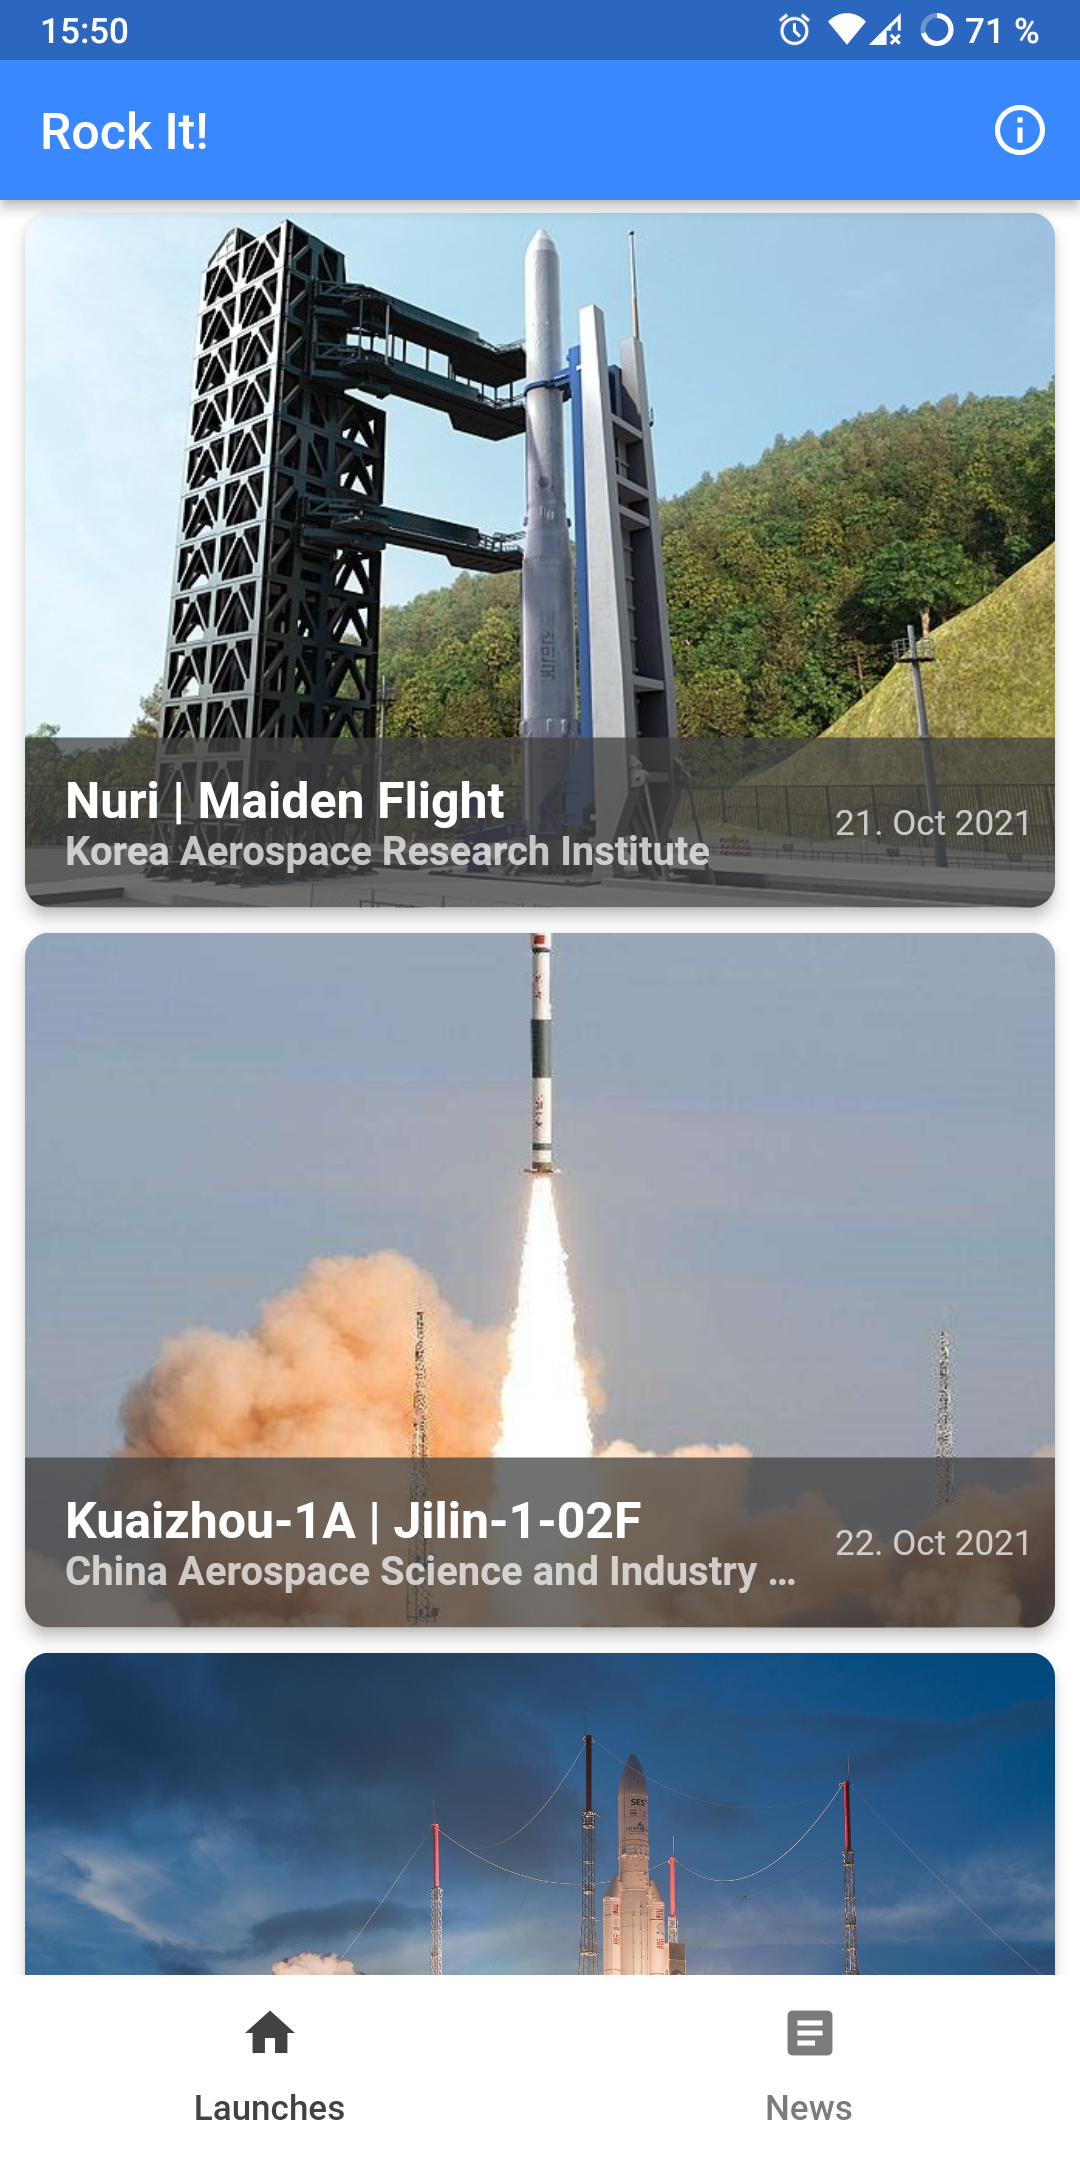
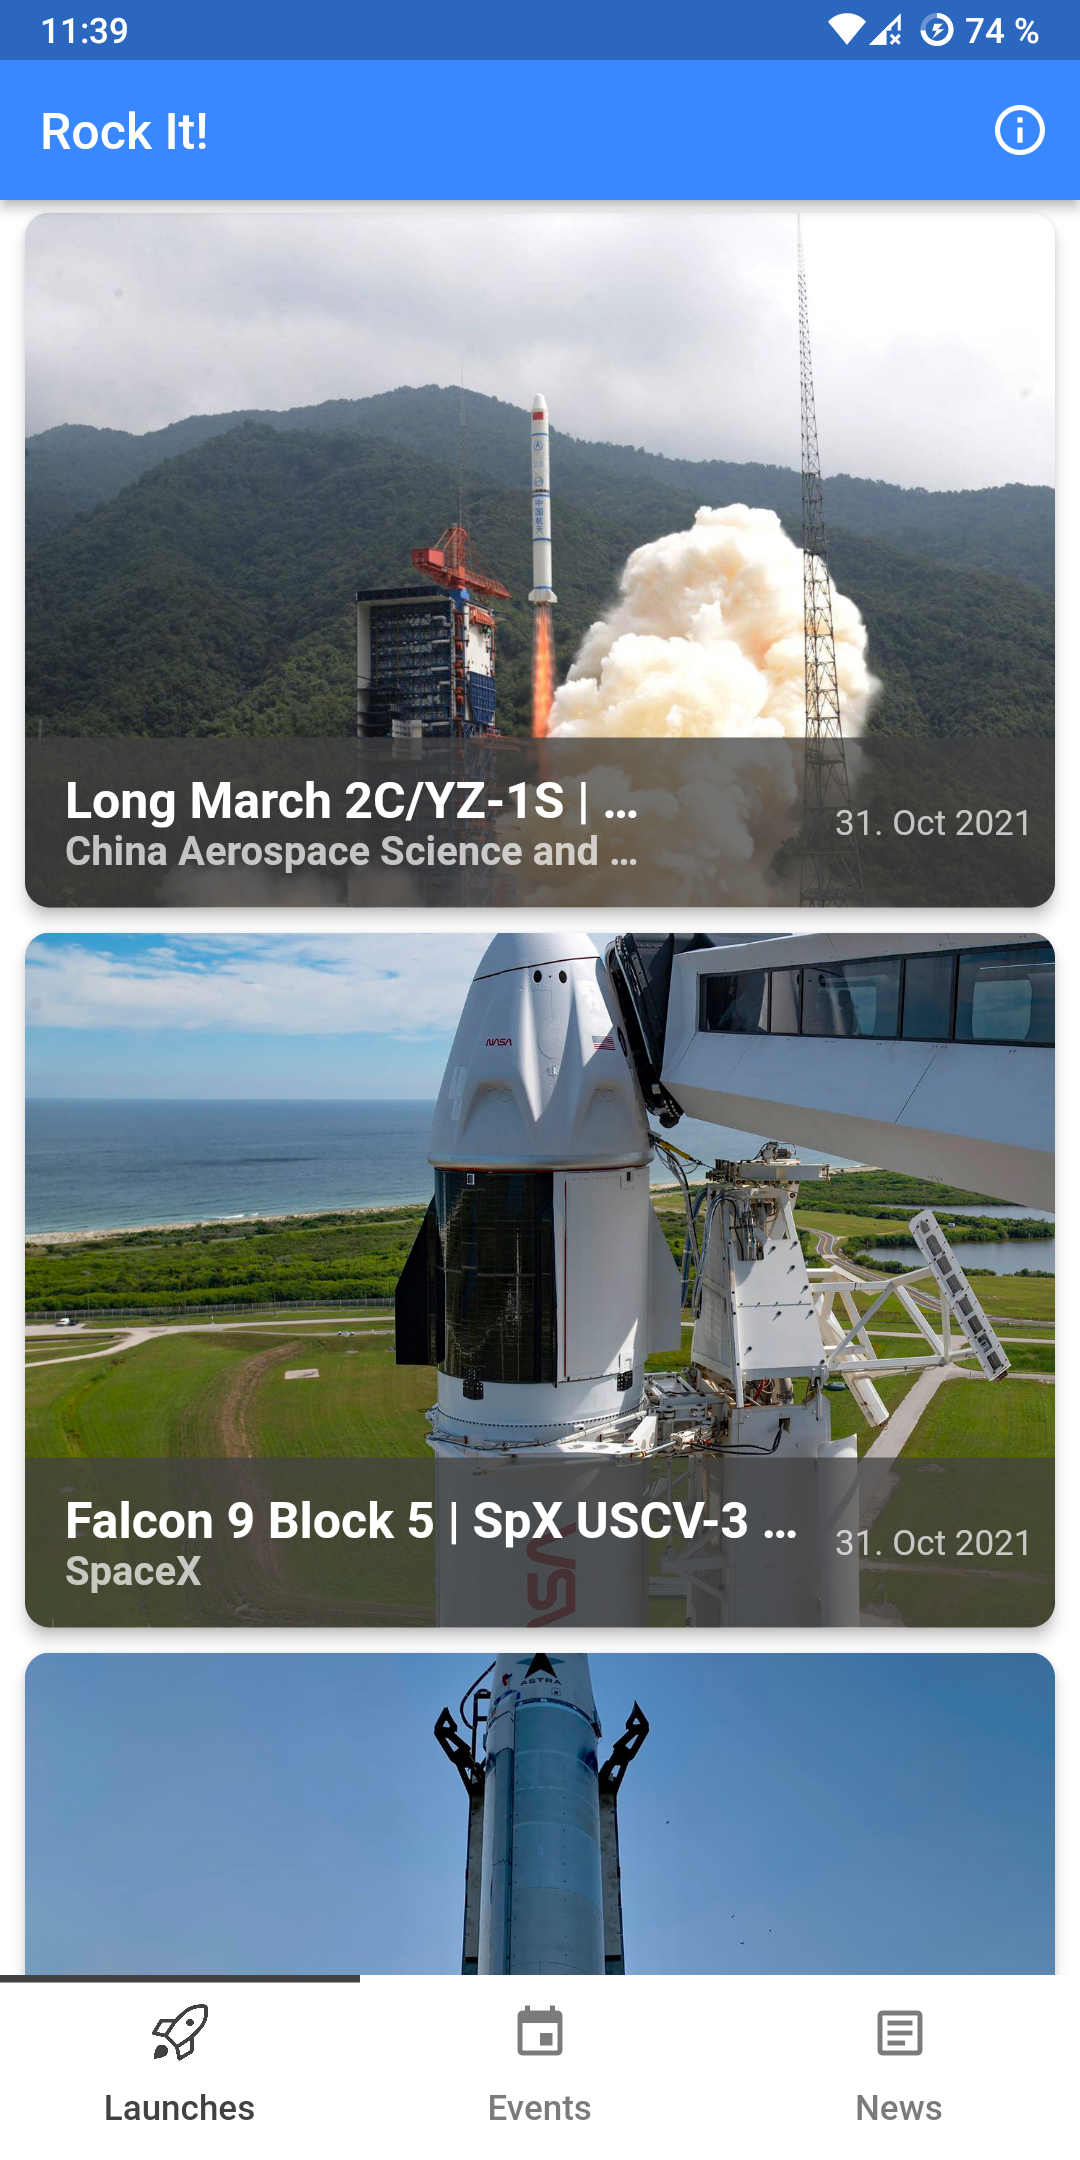
Update screenshots

diff --git a/README.md b/README.md
@@ -8,14 +8,24 @@ Rock It! is an Android app that helps you stay informed on all things space. It 
 - List latest space news articles
 - Localization for English and German
 
-### Screenshots
-|                    Launches listing (dark mode)                    |              Space news  (dark mode)               |
-| :------------------------------------------------------------: | :------------------------------------------------------: |
-| ![Launch listing](.github/screenshots/d-launches.png?raw=true) | ![News listing](.github/screenshots/d-news.png?raw=true) |
+### Screenshots (dark/light mode)
+|                        Launches listing                        |                   Events listing                    |                        Space news                        |
+| :------------------------------------------------------------: | :-------------------------------------------------: | :------------------------------------------------------: |
+| ![Launch listing](.github/screenshots/d-launches.png?raw=true) | ![Events listing](.github/screenshots/d-events.png) | ![News listing](.github/screenshots/d-news.png?raw=true) |
 
-|                   Launches listing (light mode)                    |              Space news  (light mode)              |
-| :------------------------------------------------------------: | :------------------------------------------------------: |
-| ![Launch listing](.github/screenshots/l-launches.png?raw=true) | ![News listing](.github/screenshots/l-news.png?raw=true) |
+|                   Launch details                    |                   Event details                   |
+| :-------------------------------------------------: | :-----------------------------------------------: |
+| ![Launch details](.github/screenshots/d-launch.png) | ![Event details](.github/screenshots/d-event.png) |
+
+|                        Launches listing                        |                   Events listing                    |                        Space news                        |
+| :------------------------------------------------------------: | :-------------------------------------------------: | :------------------------------------------------------: |
+| ![Launch listing](.github/screenshots/l-launches.png?raw=true) | ![Events listing](.github/screenshots/l-events.png) | ![News listing](.github/screenshots/l-news.png?raw=true) |
+
+|                   Launch details                    |                   Event details                   |
+| :-------------------------------------------------: | :-----------------------------------------------: |
+| ![Launch details](.github/screenshots/l-launch.png) | ![Event details](.github/screenshots/l-event.png) |
+
+
 
 
 ### Installation & updates
